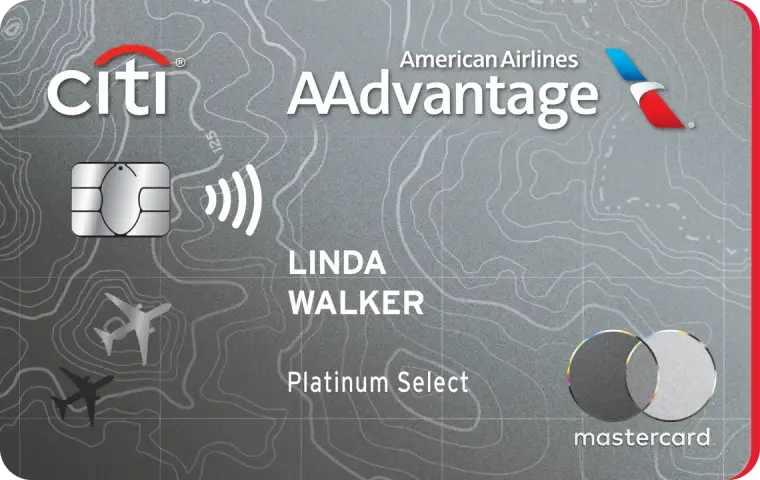
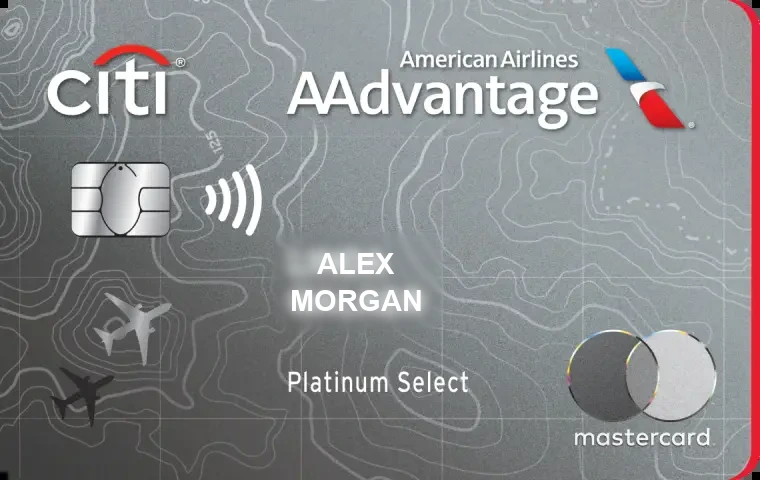
Fix the placeholder cardholder name and the collapsed network chip
Two defects visible on the wallet cards.

The three Citi product shots ship embossed with "LINDA WALKER", Citi's marketing
placeholder, which reads as a bug on a dashboard about Alex Morgan.
scripts/restyle_card_art.py now rewrites it to the persona's name: the text is
located by luminance inside a region of interest, removed by diffusing the
surrounding colour inward, and redrawn. Chase art carries no name and is left
alone. Unmodified downloads are kept in _original/ so the edit is reversible and
SOURCES.md still describes files that can be diffed.

Three things that had to be measured rather than guessed. A single luminance
threshold masked half of each card, because these are silver: the thresholds are
now per-card, taken from the actual percentile distribution inside each region. A
tight glyph mask left a legible ghost of "LINDA" between the new letters on the
AAdvantage art, so that card clears its whole name box with feathered edges
instead. And the first region of interest reached left into the contactless
symbol, which the clear then smeared.

The network chip collapsed to 30px and spilled its text across the annual-fee pill
beside it. The cause was a class collision: `.mc` was both the topbar Mastercard
logo, carrying width:30px, and the chip's network modifier. The logo class is now
`.brand-mark`, chips no longer wrap their own text, and the chip shows the tier
("World Elite") rather than the full "Mastercard World Elite", which does not fit
[…]

diff --git a/scripts/restyle_card_art.py b/scripts/restyle_card_art.py
@@ -1,0 +1,163 @@
+"""Replace the placeholder cardholder name on the vendored card art.
+
+Citi's product shots are embossed with "LINDA WALKER", their marketing placeholder.
+On a dashboard about Alex Morgan that reads as a bug, so this rewrites the name to
+match the demo persona.
+
+The name is bright text on a darker card, so it is found by luminance inside a
+region of interest rather than by hardcoded pixel boxes, then removed by diffusing
+the surrounding colour inward -- which suits these backgrounds because they are
+smooth gradients and soft textures rather than hard detail.
+
+Originals are kept in ``_original/`` so the edit is reversible and auditable.
+Run:  python scripts/restyle_card_art.py
+"""
+
+from __future__ import annotations
+
+import shutil
+import sys
+from pathlib import Path
+
+from PIL import Image, ImageDraw, ImageFilter, ImageFont
+
+sys.path.insert(0, str(Path(__file__).resolve().parent.parent))
+
+from app import config  # noqa: E402
+
+CARDS = config.ROOT / "app" / "static" / "cards"
+ORIGINALS = CARDS / "_original"
+
+NEW_NAME = "ALEX MORGAN"
+
+#: (filename, region of interest as fractions of w/h, luminance threshold, layout)
+#: The ROI keeps the search away from logos and the Mastercard mark, which are also
+#: bright; only the embossed name lives inside these boxes.
+#:
+#: Thresholds are per-card and measured, not guessed. These cards are silver, so a
+#: single global threshold masks half the background: on the Strata the name sits
+#: above ~210 while the card body reads ~90-165, and the AAdvantage art is brighter
+#: again. Measure the luminance percentiles inside the ROI before changing one.
+#: ``solid`` clears the whole name box instead of tracing each glyph. The
+#: AAdvantage art is a topographic line texture, so a glyph-shaped mask leaves both
+#: a readable ghost of "LINDA" between the new letters and a patchwork of smoothed
+#: and untouched texture. Clearing the box outright is uniform, and at the size the
+#: card is displayed the lost texture is invisible.
+TARGETS = [
+    ("citi_strata_premier.webp", (0.02, 0.78, 0.55, 0.98), 210, "one-line", False),
+    ("citi_double_cash.webp", (0.02, 0.78, 0.55, 0.98), 185, "one-line", False),
+    ("citi_aa_platinum_select.webp", (0.345, 0.42, 0.60, 0.68), 198, "two-line", True),
+]
+
+FONT_CANDIDATES = [
+    "/System/Library/Fonts/Supplemental/Arial Bold.ttf",
+    "/System/Library/Fonts/Helvetica.ttc",
+    "/Library/Fonts/Arial.ttf",
+]
+
+
+def load_font(size: int) -> ImageFont.FreeTypeFont:
+    for path in FONT_CANDIDATES:
+        if Path(path).exists():
+            try:
+                return ImageFont.truetype(path, size)
+            except OSError:
+                continue
+    return ImageFont.load_default()
+
+
+def find_text_mask(img: Image.Image, roi: tuple, threshold: int) -> Image.Image:
+    """Mask the bright pixels inside the region of interest."""
+    w, h = img.size
+    x0, y0, x1, y1 = int(roi[0] * w), int(roi[1] * h), int(roi[2] * w), int(roi[3] * h)
+    grey = img.convert("L")
+    mask = Image.new("L", img.size, 0)
+    px, mp = grey.load(), mask.load()
+    for y in range(y0, y1):
+        for x in range(x0, x1):
+            if px[x, y] >= threshold:
+                mp[x, y] = 255
+    # Grow the mask so anti-aliased edges of the glyphs are covered too. This is not
+    # cosmetic: at a tighter radius the faint outline of "LINDA" stayed legible
+    # underneath the replacement on the AAdvantage art.
+    return mask.filter(ImageFilter.MaxFilter(7))
+
+
+def solidify(mask: Image.Image, pad: int = 5, feather: int = 7) -> Image.Image:
+    """Turn a glyph mask into a soft-edged rectangle covering all of it."""
+    box = mask.getbbox()
+    if box is None:
+        return mask
+    x0, y0, x1, y1 = box
+    solid = Image.new("L", mask.size, 0)
+    ImageDraw.Draw(solid).rectangle(
+        (x0 - pad, y0 - pad, x1 + pad, y1 + pad), fill=255
+    )
+    # Feathered so the cleared area fades into the surrounding texture rather than
+    # ending on a visible straight edge.
+    return solid.filter(ImageFilter.GaussianBlur(feather))
+
+
+def inpaint(img: Image.Image, mask: Image.Image, passes: int = 14) -> Image.Image:
+    """Diffuse surrounding colour into the masked area.
+
+    Repeated blur-and-restore: each pass pulls unmasked colour one step further in,
+    so a smooth gradient closes over seamlessly. Cheap, and right for these
+    backgrounds -- there is no hard detail under the name to reconstruct.
+    """
+    out = img.convert("RGB")
+    for _ in range(passes):
+        blurred = out.filter(ImageFilter.GaussianBlur(2))
+        out = Image.composite(blurred, out, mask)
+    return out
+
+
+def draw_name(img: Image.Image, mask: Image.Image, layout: str) -> Image.Image:
+    """Print the persona's name where the placeholder was, matching its scale."""
+    box = mask.getbbox()
+    if box is None:
+        return img
+    x0, y0, x1, y1 = box
+    draw = ImageDraw.Draw(img)
+
+    if layout == "two-line":
+        first, last = NEW_NAME.split(" ", 1)
+        size = max(int((y1 - y0) * 0.42), 10)
+        font = load_font(size)
+        for i, line in enumerate((first, last)):
+            tw = draw.textbbox((0, 0), line, font=font)[2]
+            draw.text(
+                (x0 + ((x1 - x0) - tw) / 2, y0 + i * size * 1.28),
+                line, font=font, fill=(255, 255, 255),
+            )
+    else:
+        size = max(int((y1 - y0) * 0.86), 9)
+        font = load_font(size)
+        draw.text((x0, y0), NEW_NAME, font=font, fill=(232, 232, 232))
+    return img
+
+
+def main() -> None:
+    ORIGINALS.mkdir(exist_ok=True)
+    for name, roi, threshold, layout, solid in TARGETS:
+        path = CARDS / name
+        backup = ORIGINALS / name
+        if not backup.exists():
+            shutil.copy2(path, backup)
+
+        img = Image.open(backup).convert("RGB")
+        mask = find_text_mask(img, roi, threshold)
+        if mask.getbbox() is None:
+            print(f"  {name}: no placeholder text found in the region — skipped")
+            continue
+
+
+        text_box = mask.getbbox()
+        cleaned = inpaint(img, solidify(mask) if solid else mask, passes=22 if solid else 14)
+        final = draw_name(cleaned, mask, layout)
+        final.save(path, quality=92, lossless=False)
+        print(f"  {name}: name replaced with {NEW_NAME!r} (mask {mask.getbbox()})")
+
+
+if __name__ == "__main__":
+    main()

diff --git a/app/dashboard.py b/app/dashboard.py
@@ -330,6 +330,10 @@ def _wallet_section(profile: FinancialProfile) -> str:
         art = CARD_ART.get(product.product_id, "")
         logo = ISSUER_LOGO.get(product.issuer, "")
         tier = product.network_tier.value.replace("_", " ").title()
+        # "Mastercard World Elite" is too long for the card column: it overflowed its
+        # own chip and collided with the annual-fee pill. The tier alone identifies
+        # the product, and the network mark is already printed on the card art.
+        network_label = _t(tier if tier != "None" else product.network.value.title())
         top = sorted(product.reward_rules, key=lambda r: -r.multiplier)[:3]
         rules = "".join(
             f'<li><b>{_t(r.multiplier.normalize())}×</b> {_t(r.description)}</li>'
@@ -351,12 +355,7 @@ def _wallet_section(profile: FinancialProfile) -> str:
                f'width="52" height="18">' if logo else ''}
               <h3>{_t(product.display_name)}</h3>
               <p class="card-meta">
-                <span class="chip{' mc' if product.is_mastercard else ''}">
-                  {_t(product.network.value.title())}{f' {_t(tier)}' if tier != 'None' else ''}
-                </span>
-                <span class="chip{' free' if fee == 0 else ''}">
-                  {'No annual fee' if fee == 0 else f'{_money(fee)} a year'}
-                </span>
+                <span class="chip{' mc' if product.is_mastercard else ''}">{network_label}</span><span class="chip{' free' if fee == 0 else ''}">{'No annual fee' if fee == 0 else f'{_money(fee)} a year'}</span>
               </p>
             </header>
             <ul class="card-rules">{rules}</ul>
@@ -493,7 +492,7 @@ a{color:inherit}
   backdrop-filter:blur(12px);-webkit-backdrop-filter:blur(12px);border-bottom:1px solid var(--line)}
 .topbar .wrap{display:flex;align-items:center;gap:16px;height:60px}
 .brand{display:flex;align-items:center;gap:10px;font-weight:650;letter-spacing:-.02em}
-.mc{width:30px;height:19px;flex:none}
+.brand-mark{width:30px;height:19px;flex:none}
 .status{margin-left:auto;display:flex;align-items:center;gap:8px;color:var(--ink-2);font-size:13px}
 .dot{width:7px;height:7px;border-radius:50%;background:var(--good);
   box-shadow:0 0 0 3px color-mix(in srgb,var(--good) 22%,transparent)}
@@ -555,7 +554,7 @@ a{color:inherit}
 .chips{display:flex;gap:5px;flex-wrap:wrap;margin-top:4px}
 .chip{display:inline-flex;align-items:center;gap:4px;font-size:11px;font-weight:600;
   padding:2px 8px;border-radius:999px;border:1px solid var(--line);color:var(--ink-2);
-  background:var(--surface)}
+  background:var(--surface);white-space:nowrap;flex:none}
 .chip.portal{border-color:color-mix(in srgb,var(--brand) 40%,var(--line));
   color:var(--brand-ink);background:color-mix(in srgb,var(--brand) 7%,transparent)}
 .chip.tie{border-style:dashed}
@@ -756,7 +755,7 @@ def render_alex_dashboard(profile: FinancialProfile) -> str:
 <header class="topbar">
   <div class="wrap">
     <div class="brand">
-      <svg class="mc" viewBox="0 0 48 30" aria-hidden="true">
+      <svg class="brand-mark" viewBox="0 0 48 30" aria-hidden="true">
         <circle cx="17" cy="15" r="14" fill="#EB001B"/>
         <circle cx="31" cy="15" r="14" fill="#F79E1B"/>
         <path fill="#FF5F00" d="M24 4.2a14 14 0 0 0 0 21.6 14 14 0 0 0 0-21.6z"/>

diff --git a/tests/test_mcp.py b/tests/test_mcp.py
@@ -252,3 +252,44 @@ def test_demo_alex_json_remains_available_for_debugging():
 
     assert payload["customer_id"] == "alex"
     assert len(payload["accounts"]) == 7
+
+
+def test_card_art_carries_no_placeholder_cardholder_name():
+    """Citi's product shots ship embossed with their placeholder, "LINDA WALKER".
+
+    On a dashboard about Alex Morgan that reads as a bug, so the art is rewritten by
+    scripts/restyle_card_art.py. This guards the originals never creep back in.
+    """
+    from pathlib import Path
+
+    cards = Path(__file__).resolve().parent.parent / "app" / "static" / "cards"
+    shipped = [p for p in cards.glob("*") if p.suffix in {".png", ".webp"}]
+    assert len(shipped) == 5
+
+    originals = cards / "_original"
+    assert originals.is_dir(), "originals must be kept so the edit stays reversible"
+    for edited in shipped:
+        backup = originals / edited.name
+        if backup.exists():
+            assert edited.read_bytes() != backup.read_bytes(), (
+                f"{edited.name} still matches the untouched original"
+            )
+
+
+def test_network_chip_never_collides_with_the_fee_pill():
+    """`.mc` was both the topbar logo (width:30px) and the chip's network modifier.
+
+    The logo rule won, collapsing every network chip to 30px so its text spilled over
+    the annual-fee pill beside it. Two guards: the logo no longer uses a name generic
+    enough to collide, and chips do not wrap their own text.
+    """
+    html = anyio.run(demo_alex, None).body.decode()
+
+    assert 'class="brand-mark"' in html
+    assert ".mc{width:30px" not in html, "the bare .mc width rule is back"
+    assert "white-space:nowrap" in html
+
+    # The chip says the tier, not the full "Mastercard World Elite", which is too
+    # long for the card column.
+    assert '<span class="chip mc">World Elite</span>' in html
+    assert "Mastercard World Elite</span>" not in html

diff --git a/tests/test_banksym_provider.py b/tests/test_banksym_provider.py
@@ -33,9 +33,20 @@ def fixture_profile():
     return SyntheticAlexProvider().get_profile("alex")
 
 
-def test_same_accounts_and_transaction_counts(live, fixture_profile):
+def test_seeded_accounts_and_transactions_all_arrive(live, fixture_profile):
+    """Every seeded account and transaction must come back over FDX.
+
+    Asserted as a superset, not an exact count: BankSym is a test bank and accounts
+    can legitimately be added to Alex through its console. Extra empty accounts do
+    not change any recommendation, so failing the suite over them would be noise --
+    but a *missing* seeded account is a real defect, and that is what this catches.
+    """
     profile = live.get_profile("alex")
-    assert len(profile.accounts) == len(fixture_profile.accounts)
+
+    seeded = {a.mask for a in fixture_profile.accounts}
+    live_masks = {a.mask for a in profile.accounts}
+    assert seeded <= live_masks, f"seeded accounts missing over FDX: {seeded - live_masks}"
+
     assert len(profile.transactions) == len(fixture_profile.transactions)
     assert len(profile.spend_transactions) == len(fixture_profile.spend_transactions)
 

diff --git a/app/static/cards/SOURCES.md b/app/static/cards/SOURCES.md
@@ -1,4 +1,4 @@
-# Official card-art sources
+# Card art and logo sources
 
 Downloaded 2026-09-01 from the current issuer product pages for local demo use.
 
@@ -13,3 +13,17 @@ Downloaded 2026-09-01 from the current issuer product pages for local demo use.
 - `../logos/citi.svg`: https://aemapi.citi.com/content/dam/cfs/mobile/assets/CBOL/IA/Angular/assets/citiredesign.svg
 - `../logos/chase.svg`: https://creditcards.chase.com/content/dam/jpmc-marketplace/site-assets/logos/chasebank-logo-icon-bluebg_2025.svg
 - `../logos/mastercard.svg`: https://www.mastercard.com/content/dam/mccom/shared/header/ma_symbol.svg
+
+## Cardholder name
+
+The three Citi shots ship embossed with **LINDA WALKER**, Citi's marketing
+placeholder. On a dashboard about Alex Morgan that reads as a bug, so
+`scripts/restyle_card_art.py` rewrites the name to match the persona. The Chase art
+carries no name and is untouched.
+
+Unmodified downloads are kept in `_original/`, so the edit is reversible and the
+provenance above still refers to files you can diff against. Re-run the script after
+re-downloading any card.
+
+These images and marks remain the property of their respective issuers and are used
+here only to identify the products a simulated wallet holds.
